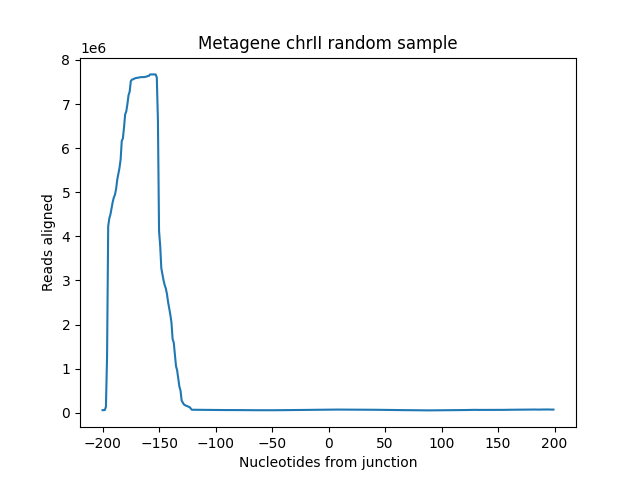
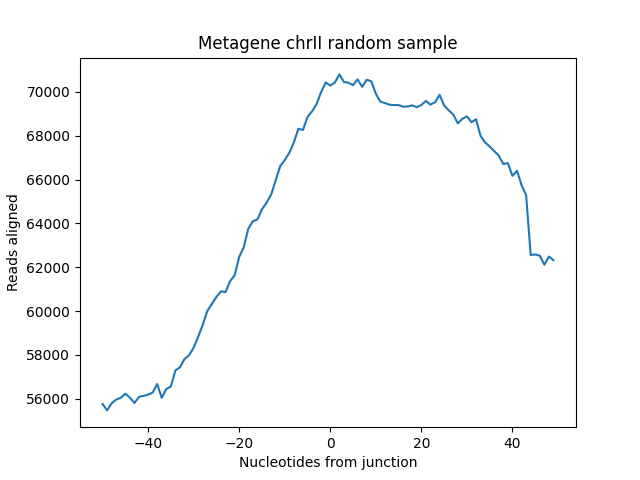
Added print statements to the code, ran the code on -50, +50 windoes on all chromosomes

diff --git a/code/helper.py b/code/helper.py
@@ -14,6 +14,7 @@ _kDefaultBamFile = "../AitkenLab/rnaseq_all.bam"
 _kDefaultBedFile = "../indexes/yeast-all.bed"
 _kDefaultMTIFFile = "../SteinmetzGilbert/stmtz_n_mtifs.txt"
 _kDefaultTIFsFile = "../parsed_steinmetz_s1_tifs.txt"
+_kMetageneRangeNt = 50
 
 kYeastChroms = [
     "chrI", "chrII", "chrIII", "chrIV", "chrV", "chrVI", "chrVII", "chrVIII",
@@ -75,11 +76,13 @@ def read_all_tifs(fname=_kDefaultTIFsFile,
 
     # TODO(astanciu): this seems like bad design change it into two separate functions
     if not return_dict:
+        print("Done reading TIF file... returning a pandas")
         return tifs
 
     grouped_tifs = {}
     for chrom in kYeastChroms:
         grouped_tifs[chrom] = read_tifs_chrom(tifs, chrom)
+    print("Done reading TIF file... returning a dictionary")
     return grouped_tifs
 
 
@@ -105,6 +108,7 @@ def read_tifs_chrom(tifs, chrom, positive_strand_only=False):
     grouped_tifs = {}
     for gene in genes:
         grouped_tifs[gene] = chrom_tifs[chrom_tifs.name == gene]
+    print("Processed TIFs in chromosome " + str(chrom) + "...")
     return grouped_tifs
 
 
@@ -123,7 +127,10 @@ def grab_reads(chrom, reads, positive_strand_only=False):
     filtered = reads.fetch(chrom)
     if positive_strand_only:
         return [x for x in filtered if not x.is_reverse]
-    return list(reads.fetch(chrom))
+    chr_reads = list(reads.fetch(chrom))
+    print("Processed mRNAs from chromosome " + chrom +
+          ". Total reads in chromosome: " + len(chr_reads) +
+          ". positive_strand_only=" + str(positive_strand_only))
 
 
 def generate_5utr_isoform_starts(tifs):
@@ -131,6 +138,7 @@ def generate_5utr_isoform_starts(tifs):
     Extracts all the unique 5' ends from a pandas of tifs. 
     """
     # This is a naive version for now
+    print("Grabbed all unique 5' ends of TIFS as junctions.")
     return list(unique(tifs.t5))
 
 
@@ -152,8 +160,10 @@ def save_density_plot(density,
     plt.savefig(filename)
     plt.close()
 
+    print("Saved plot " + filename)
 
-def generate_metagene(reads, tifs, chrom):
+
+def generate_metagene(reads, tifs, chrom, density=None):
     """
     Takes all the unique TIF 5'starts from steinmetz (from genes in a given chromosome), 
     generates read densities for each gene and overlaps all the junctions into a metagene.
@@ -169,8 +179,11 @@ def generate_metagene(reads, tifs, chrom):
     Effect:
         Saves a density plot.
     """
+    print("Generating metagene for chromosome " + chrom)
     chrom_tifs = read_tifs_chrom(tifs, chrom, positive_strand_only=True)
-    density = generate_read_density_chrom(chrom, reads)
+    if not density:
+        density = generate_read_density_chrom(chrom, reads)
+    print("Done generating density for metagene plot for chromosome " + chrom)
     #TODO(astanciu): implement a funciton that generates the density of reads for a whole chromosome (no star/end params)
 
     splits = []
@@ -179,16 +192,17 @@ def generate_metagene(reads, tifs, chrom):
         split_positions = generate_5utr_isoform_starts(tifs)
         splits = splits + split_positions
         #list(np.random.choice(split_positions, 1, replace=False))
+    print("Making the metagene plot...")
     return make_metagene_plot(density,
                               splits,
                               "tester_output/meta_" + chrom + ".png",
-                              200,
-                              200,
+                              _kMetageneRangeNt,
+                              _kMetageneRangeNt,
                               plottitle="Metagene " + chrom +
                               " steinmetz 5'UTR junction")
 
 
-def generate_random_metagene(reads, chrom, sample_size):
+def generate_random_metagene(reads, chrom, sample_size, density=None):
     """
     Generates sample_size random indices inside chrom boundaries, 
     and makes a metagene around them.
@@ -204,15 +218,24 @@ def generate_random_metagene(reads, chrom, sample_size):
     Effect:
         Saves a density plot.
     """
-    density = generate_read_density_chrom(chrom, reads)
+    print("Generating metagene for chromosome " + chrom +
+          " with randomly sampled junction sites")
+    if not density:
+        density = generate_read_density_chrom(chrom, reads)
     splits = np.random.randint(201, len(density) - 201, size=sample_size)
+
+    print(
+        "Done generating density for random-sample-metagene plot for chromosome "
+        + chrom)
+
     # TODO(astanciu): check for duplicates
+    print("Generating random sample metagene...")
     return make_metagene_plot(density,
                               splits,
                               "tester_output/meta_" + chrom +
                               "_random_sample.png",
-                              200,
-                              200,
+                              _kMetageneRangeNt,
+                              _kMetageneRangeNt,
                               plottitle="Metagene " + chrom + " random sample")
 
 
@@ -225,7 +248,7 @@ def make_metagene_plot(density,
     """ 
     Generates a metagene plot from a read density array, a list of indices and a window around each split.
     
-    Sums up the read densitie in the window (-upstream, +downstream) around each split.
+    Sums up the read density in the window (-upstream, +downstream) around each split.
     
 
 
@@ -242,12 +265,14 @@ def make_metagene_plot(density,
     Effect?:
         Saves a metagene plot.
     """
-    print("Number of split sites is: " + str(len(splits)))
+    print("Generating metagene plot... Number of overlapping sites is: " +
+          str(len(splits)))
     meta = np.zeros(upstream + downstream)
     for splitidx in splits:
         meta = np.add(meta,
                       density[(splitidx - upstream):(splitidx + downstream)])
 
+    print("Saving metagene plot...")
     save_density_plot(meta,
                       range(-upstream, downstream),
                       plotname,
@@ -265,6 +290,7 @@ def read_files(bedfile=_kDefaultBedFile,
 
     # TODO(astanciu): split into multiple functions
 
+    print("Reading files...")
     bam = pysam.AlignmentFile(bamfile)
     # This is just an iterator in the file
     genes = BedTool(bedfile)  # Full genome loaded in memory
@@ -277,6 +303,7 @@ def read_files(bedfile=_kDefaultBedFile,
 
     if positive_strand_only:
         mtifs = mtifs[mtifs.strand == "+"]
+    print("Done reading files...")
     return bam, genes_dict, mtifs
 
 
@@ -288,10 +315,13 @@ def generate_read_density_chrom(chrom, allreads):
     This function is linear in number of reads and length of chromosome.
     (doesn't depend on read length)
     """
+    print("generate_read_density_chrom chrom=" + chrom)
     end = 0
     reads = grab_reads(chrom, allreads, positive_strand_only=True)
+    print("len(reads)=" + str(len(reads)))
     for read in reads:
         end = max(end, read.reference_end)
+    print("chrom_size=" + str(max))
     # To compute the density first compute the delta in read density at each position in the genome
     density = [0] * (end + 2)
     for read in reads:
@@ -302,11 +332,13 @@ def generate_read_density_chrom(chrom, allreads):
     # Summing up the deltas gives us the density.
     for i in range(1, len(density)):
         density[i] = density[i] + density[i - 1]
+    print("Done generating read density...")
     return density
 
 
 def generate_read_density_interval(start, end, allreads):
     """
+    DEPRECATED!!!!
     Grabs all the reads that overlap in [start, end] and generates a read density array 
     (i.e. How many reads align with each position in the chrom)
     
@@ -314,6 +346,7 @@ def generate_read_density_interval(start, end, allreads):
     (doesn't depend on read length)
     """
     # For more details check generate_read_density_chrom
+    print("This function is not used outside of its own test")
     density = [0] * (end - start + 2)
     #TODO(astanciu): should not use chrI here but rather a parameter.
     reads = grab_reads("chrI", allreads, positive_strand_only=True)

diff --git a/code/tester.py b/code/tester.py
@@ -28,9 +28,18 @@ tifs = helper.read_all_tifs(positive_strand_only=True)
 
 chr1_genes = [gene for gene in genes_dict.values() if gene.chrom == "chrI"]
 
-print("We have " + str(len(chr1_genes)) + " on + strand in chrI")
+print("We have " + str(len(chr1_genes)) + " genes on + strand in chrI")
 
-# TODO(astanciu): have the code produce logs of steps and parameters
+
+def make_metagenes_for_chrom(chrom):
+    chr_density = helper.generate_read_density_chrom(chrom, bamfile)
+    helper.generate_metagene(bamfile, tifs, chrom, density=chr_density)
+    helper.generate_random_metagene(bamfile, chrom, 1231, density=chr_density)
+
+
 for chrom in helper.kYeastChroms:
-    helper.generate_metagene(bamfile, tifs, chrom)
-    helper.generate_random_metagene(bamfile, chrom, 1231)
+    make_metagenes_for_chrom(chrom)
+
+#pool = multiprocessing.Pool(multiprocessing.cpu_count())
+#pool.map(make_metagenes_for_chrom, helper.kYeastChroms):
+#pool.close()
